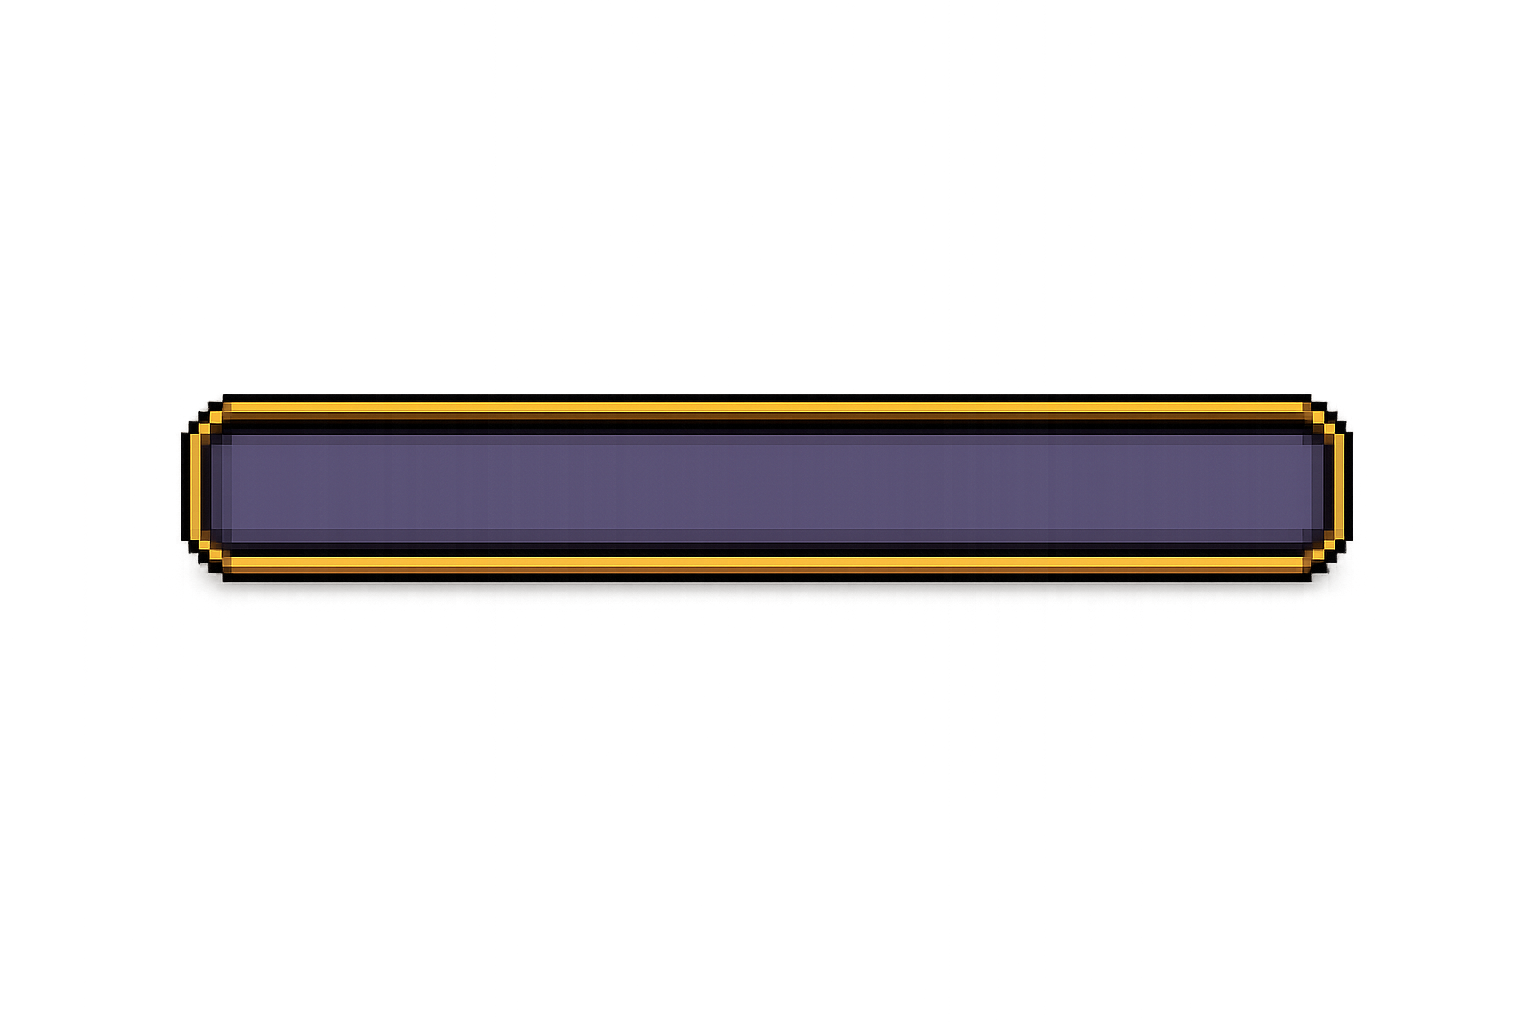
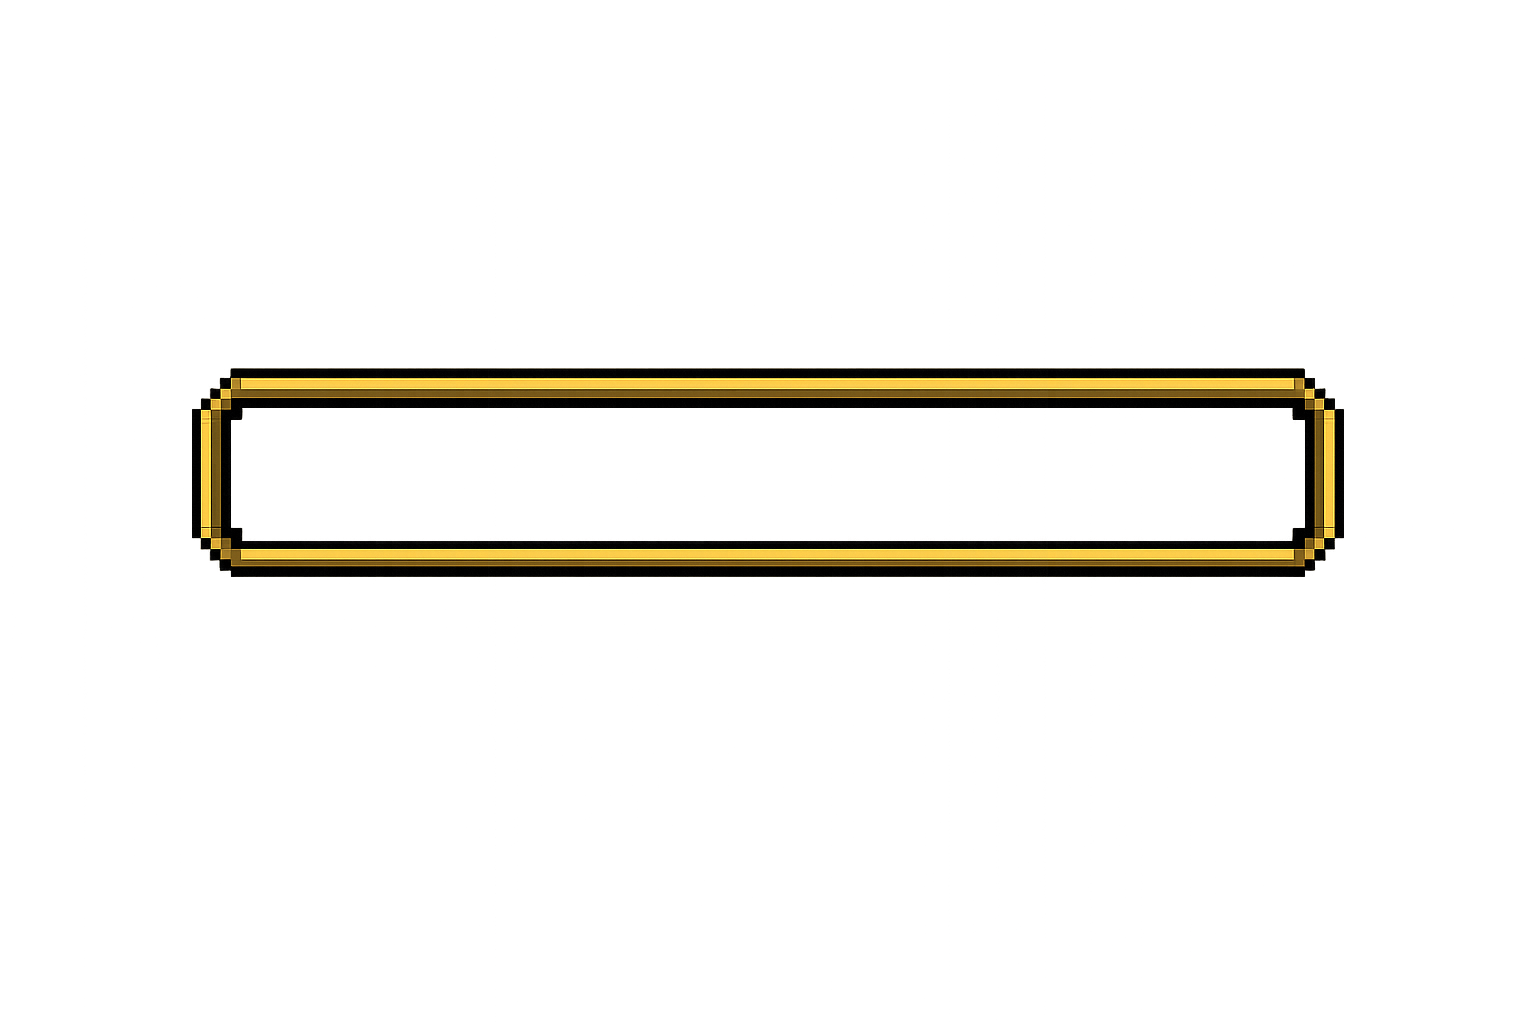
сделана рамка для healthBar

Changed region(s): [[0.0938, 0.3438, 0.9062, 0.5938]]

diff --git a/client/app.js b/client/app.js
@@ -34,26 +34,6 @@ gameObjects.push(new SpriteStatic({
   height: canvas.height
 }))
 
-gameObjects.push(new SpriteStatic({
-  position: {
-    x: -24,
-    y: -100
-  },
-  imgSrc: './img/healthBarFrame.png',
-  width: 550,
-  height: 300
-}))
-
-gameObjects.push(new SpriteStatic({
-  position: {
-    x: canvas.width/2 - 14,
-    y: -100
-  },
-  imgSrc: './img/healthBarFrame.png',
-  width: 550,
-  height: 300
-}))
-
 gameObjects.push(new SpriteAnimated({
   position: {
     x: 650,
@@ -151,14 +131,14 @@ const ninjaData = {
 
 const rightHealthBarData = {
   offset: {
-    x: 50,
+    x: 64,
     y: 0
   },
   textureMirroring: 1
 }
 const leftHealthBarData = {
   offset: {
-    x: -50,
+    x: -64,
     y: 0
   },
   textureMirroring: -1
@@ -361,6 +341,15 @@ function setFighter (player, leftHealthBarData, rightHealthBarData) {
 
         leftHealthBarData.entity = player.samurai
         gameObjects.push(new HealthBar(leftHealthBarData))
+        gameObjects.push(new SpriteStatic({
+          position: {
+            x: -24,
+            y: -90
+          },
+          imgSrc: './img/healthBarFrame.png',
+          width: 550,
+          height: 300
+        }))
       }
       if (player.type == 'ninja' && ninjaData.position) {
         player.ninja = new Fighter(ninjaData)
@@ -368,6 +357,15 @@ function setFighter (player, leftHealthBarData, rightHealthBarData) {
 
         rightHealthBarData.entity = player.ninja
         gameObjects.push(new HealthBar(rightHealthBarData))
+        gameObjects.push(new SpriteStatic({
+          position: {
+            x: canvas.width/2 - 14,
+            y: -90
+          },
+          imgSrc: './img/healthBarFrame.png',
+          width: 550,
+          height: 300
+        }))
       }
     } else {
       clearInterval(intervalId)

diff --git a/client/classes.js b/client/classes.js
@@ -376,22 +376,22 @@ class HealthBar extends Indicator {
     super({
       position: {
         x: canvas.width / 2,
-        y: 10
+        y: 26
       },
       color: 'green',
-      width: 417,
-      height: 70,
+      width: 393,
+      height: 45,
       offset
     })
-    this.maxWidth = 417
+    this.maxWidth = 393
     this.textureMirroring = textureMirroring
     this.healthValue = 1
     this.entity = entity
   }
 
   render () {
-    ctx.fillStyle = this.color
-    ctx.strokeRect(this.position.x + this.offset.x, this.position.y + this.offset.y, this.maxWidth * this.textureMirroring * this.healthValue, this.height)
+    ctx.fillStyle = 'rgba(159,63,79)'
+    ctx.fillRect(this.position.x + this.offset.x, this.position.y + this.offset.y, this.maxWidth * this.textureMirroring * this.healthValue, this.height)
   }
 
   update () {
